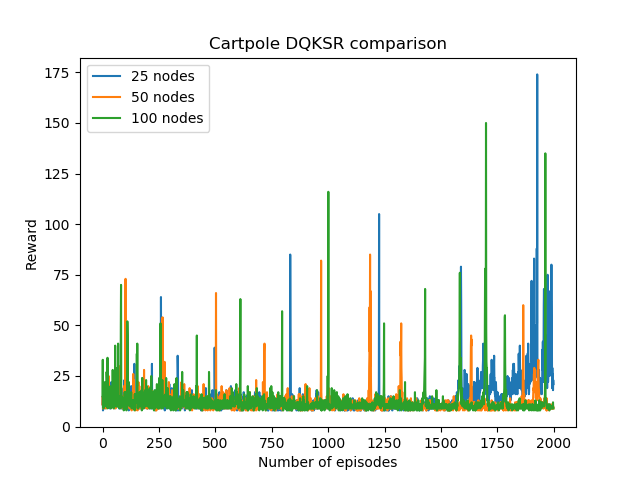
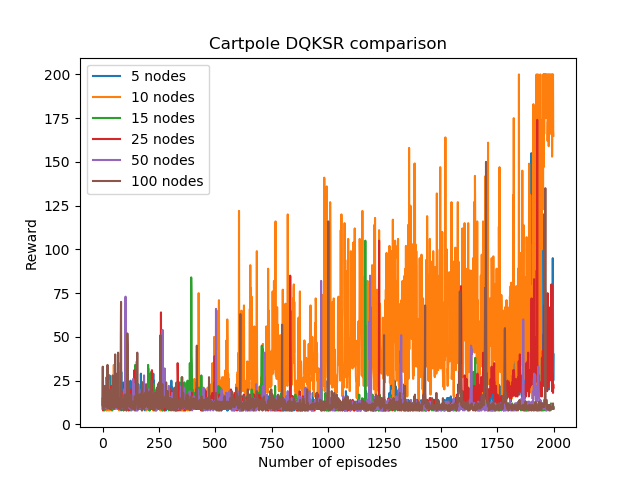
Added code for smoothening

diff --git a/CartPole_data/results.py b/CartPole_data/results.py
@@ -1,29 +1,35 @@
 import matplotlib.pylab as plt
 import pandas as pd
+import numpy as np
 import os
 
-data1 = pd.read_csv('Cartpole-DQKSR-5-2000.csv')
-data2 = pd.read_csv('Cartpole-DQKSR-10-2000.csv')
-data3 = pd.read_csv('Cartpole-DQKSR-15-2000.csv')
-data4 = pd.read_csv('Cartpole-DQKSR-25-2000.csv')
-data5 = pd.read_csv('Cartpole-DQKSR-50-2000.csv')
-data6 = pd.read_csv('Cartpole-DQKSR-100-2000.csv')
+data = []
+data_smooth = []
+N = 25
+
+data.append(pd.read_csv('Cartpole-DQKSR-5-2000.csv'))
+data.append(pd.read_csv('Cartpole-DQKSR-10-2000.csv'))
+data.append(pd.read_csv('Cartpole-DQKSR-15-2000.csv'))
+data.append(pd.read_csv('Cartpole-DQKSR-25-2000.csv'))
+data.append(pd.read_csv('Cartpole-DQKSR-50-2000.csv'))
+data.append(pd.read_csv('Cartpole-DQKSR-100-2000.csv'))
+
+for i in range(len(data)):
+    data_smooth.append(np.convolve(data[i]['Reward'], np.ones((N,))/N, mode='valid'))
+    # plt.plot(data[i]['Reward'])
+    plt.plot(data_smooth[i])
 
 
-plt.plot(data1['Reward'])
-plt.plot(data2['Reward'])
-plt.plot(data3['Reward'])
-plt.plot(data4['Reward'])
-plt.plot(data5['Reward'])
-plt.plot(data6['Reward'])
 
+
+# plt.legend(['no filter', 'filter'])
 plt.legend(['5 nodes','10 nodes', '15 nodes', '25 nodes',
             '50 nodes', '100 nodes'])
 
-plt.title('Cartpole DQKSR comparison')
+plt.title('Cartpole DQKSR comparison filtered')
 plt.xlabel('Number of episodes')
 plt.ylabel('Reward')
-os.chdir('CartPole Figures')
-plt.savefig('CartPole-DQKSR-2000-2.png')
-os.chdir('..')
+# os.chdir('CartPole Figures')
+# plt.savefig('CartPole-DQKSR-2000-filtered.png')
+# os.chdir('..')
 plt.show()
